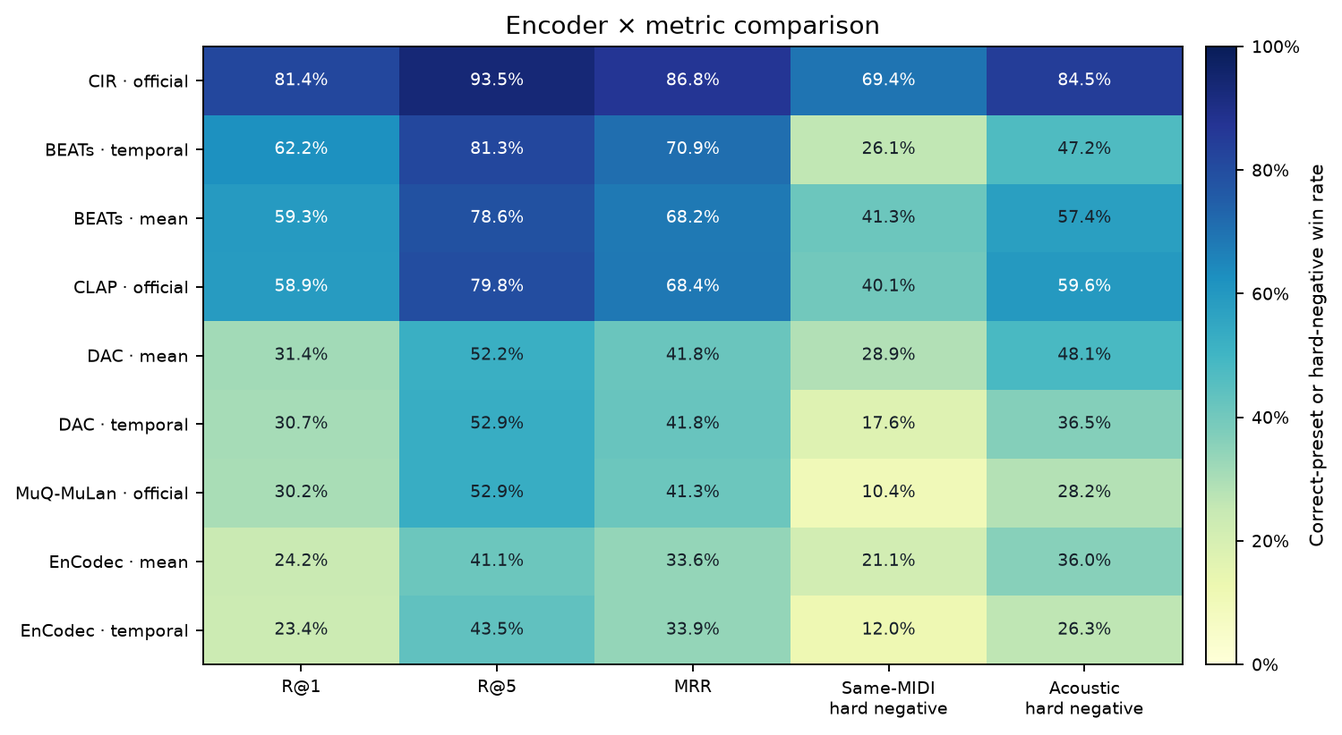
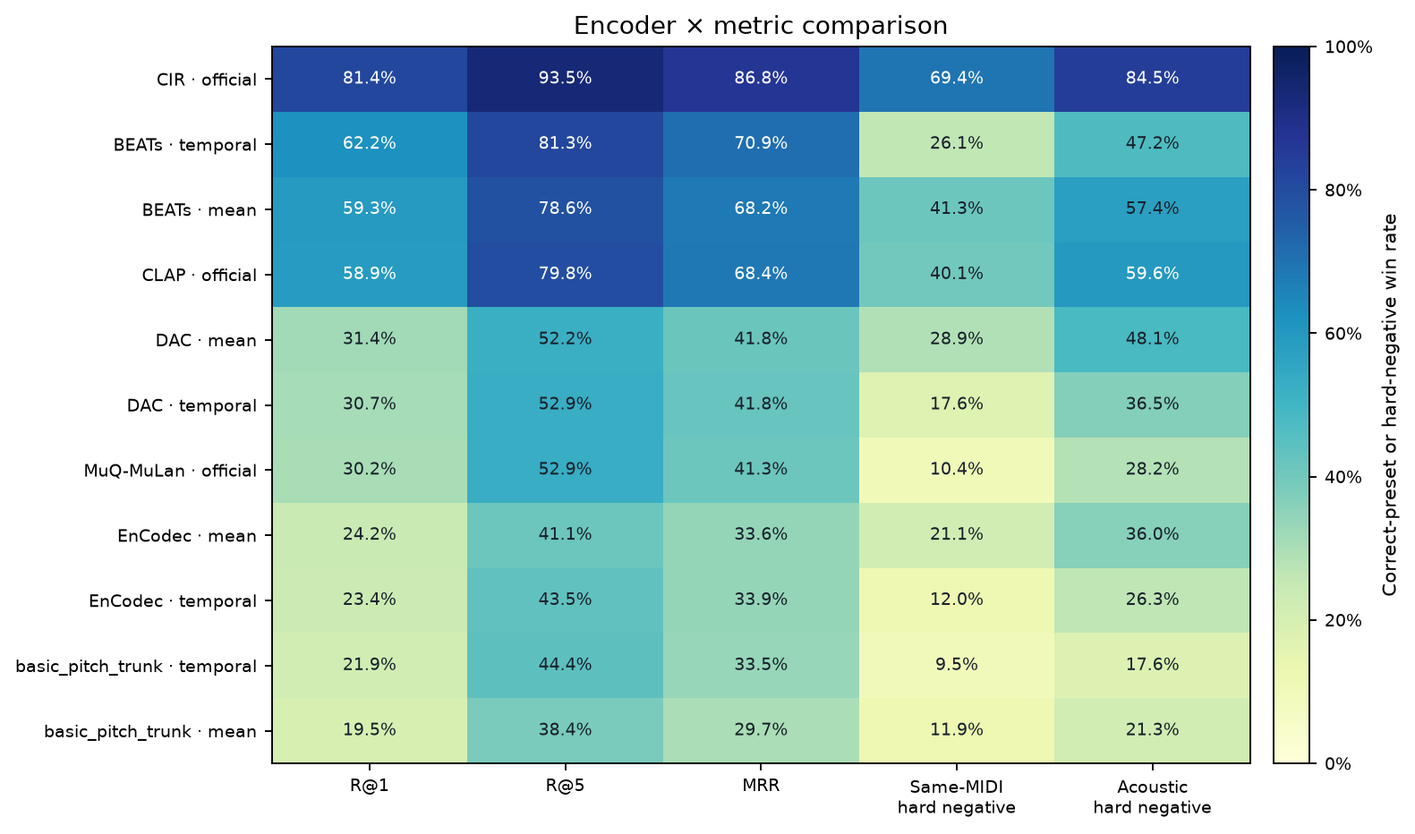
Add Basic Pitch retrieval results

diff --git a/research/modelling/frozen_encoder_retrieval/frozen_retrieval/evaluation.py b/research/modelling/frozen_encoder_retrieval/frozen_retrieval/evaluation.py
@@ -3,6 +3,7 @@ from __future__ import annotations
 from collections import Counter, defaultdict
 import json
 from pathlib import Path
+from typing import Sequence
 
 from .core import (MODEL_REGISTRY, _rank_metrics, canonical_json, cluster_bootstrap, digest, mixed_gallery_midi_id,
                    paired_cluster_bootstrap, paired_performance_bootstrap, paired_two_way_cluster_bootstrap,
@@ -513,8 +514,44 @@ def midi_shortcut_baseline(episodes, candidates, performances):
     return output
 
 
-def evaluate_dataset(dataset_dir: Path) -> dict:
+def evaluate_dataset(dataset_dir: Path, *, models: Sequence[str] | None = None) -> dict:
     dataset_dir = dataset_dir.resolve(strict=True)
+    selected_models = set(models) if models else None
+    if selected_models is not None and not selected_models.issubset(MODEL_REGISTRY):
+        raise ValueError(f"unknown encoder models: {sorted(selected_models - set(MODEL_REGISTRY))}")
+    previous_result, previous_rows, previous_common_by_condition, previous_hard_negatives = {}, [], {}, {}
+    if selected_models is not None:
+        result_path, rows_path = dataset_dir / "evaluation.private.json", dataset_dir / "episode_metrics.private.jsonl"
+        if not result_path.is_file() or not rows_path.is_file():
+            raise ValueError("selected-model evaluation requires an existing complete evaluation to extend")
+        previous_result = json.loads(result_path.read_text(encoding="utf-8"))
+        previous_rows = _jsonl(rows_path)
+        for row in previous_rows:
+            state_ids = row.get("acoustic_hard_negative_state_ids")
+            similarities = row.get("acoustic_hard_negative_selector_similarities")
+            if state_ids is None or similarities is None:
+                continue
+            if len(state_ids) != len(similarities):
+                raise ValueError("cached acoustic hard-negative states and selector scores disagree")
+            selected = list(zip(state_ids, similarities, strict=True))
+            episode_id = row["episode_id"]
+            if episode_id in previous_hard_negatives and previous_hard_negatives[episode_id] != selected:
+                raise ValueError(f"saved acoustic hard-negative selection differs across arms for {episode_id}")
+            previous_hard_negatives[episode_id] = selected
+        previous_arms = previous_result.get("available_arms", [])
+        for condition in ("cross_midi_common_gallery", "cross_midi_mixed_gallery"):
+            episode_ids_by_arm = [{row["episode_id"] for row in previous_rows
+                                   if row.get("arm") == arm and row.get("condition") == condition}
+                                  for arm in previous_arms]
+            if episode_ids_by_arm and any(episode_ids_by_arm) and not all(episode_ids_by_arm):
+                raise ValueError(f"existing evaluation is missing paired episode rows for {condition}")
+            previous_common_by_condition[condition] = (set.intersection(*episode_ids_by_arm)
+                if episode_ids_by_arm and all(episode_ids_by_arm) else set())
+        if selected_models & {arm.split(":", 1)[0] for arm in previous_result.get("available_arms", [])}:
+            previous_rows = [row for row in previous_rows if row.get("arm", "").split(":", 1)[0] not in selected_models]
+            previous_result["model_results"] = {arm: data for arm, data in previous_result.get("model_results", {}).items()
+                if arm.split(":", 1)[0] not in selected_models}
+            previous_result["available_arms"] = sorted(previous_result["model_results"])
     dataset_summary = json.loads((dataset_dir / "dataset_summary.private.json").read_text(encoding="utf-8"))
     validate_dataset_manifests(dataset_dir, dataset_summary)
     candidates = json.loads((dataset_dir / "candidate_sets.private.json").read_text(encoding="utf-8"))
@@ -533,6 +570,8 @@ def evaluate_dataset(dataset_dir: Path) -> dict:
         if not model_dir.is_dir() or not (model_dir / "feature_manifest.private.jsonl").is_file():
             continue
         model_name = model_dir.name
+        if selected_models is not None and model_name not in selected_models:
+            continue
         feature_manifest = _jsonl(model_dir / "feature_manifest.private.jsonl")
         feature_ids = {row["feature_id"] for row in feature_manifest}
         if len(feature_ids) != len(feature_manifest):
@@ -547,6 +586,8 @@ def evaluate_dataset(dataset_dir: Path) -> dict:
         variants = sorted({variant for row in loaded.values() for variant in row})
         for variant in variants:
             model_features[f"{model_name}:{variant}"] = (model_name, variant, loaded)
+    if selected_models is not None and not model_features:
+        raise ValueError(f"no extracted feature caches found for selected encoder models: {sorted(selected_models)}")
     conditions = ("cross_midi_common_gallery", "cross_midi_mixed_gallery")
     eligible_by_arm = {}
     for arm, (_, _, features) in model_features.items():
@@ -560,15 +601,26 @@ def evaluate_dataset(dataset_dir: Path) -> dict:
         common = {row["episode_id"] for row in qa_episodes if row["condition"] == condition}
         for valid_by_condition in eligible_by_arm.values():
             common &= valid_by_condition[condition]
+        if selected_models is not None:
+            prior_common = previous_common_by_condition[condition]
+            common &= prior_common
         common_by_condition[condition] = common if model_features else set()
-    acoustic_hard_negatives = (_acoustic_hard_negative_candidates(dataset_dir, qa_episodes, candidates,
-        pair_to_request, receipts) if model_features else {})
+    selected_episode_ids = {episode_id for episode_ids in common_by_condition.values() for episode_id in episode_ids}
+    acoustic_hard_negatives = {episode_id: previous_hard_negatives[episode_id] for episode_id in selected_episode_ids
+                               if episode_id in previous_hard_negatives}
+    missing_hard_negative_ids = selected_episode_ids - set(acoustic_hard_negatives)
+    if missing_hard_negative_ids:
+        missing_episodes = [episode for episode in qa_episodes if episode["episode_id"] in missing_hard_negative_ids]
+        acoustic_hard_negatives.update(_acoustic_hard_negative_candidates(
+            dataset_dir, missing_episodes, candidates, pair_to_request, receipts))
     coverage_by_condition = {}
     for condition in conditions:
         qa_counts = qa_summary["coverage_by_condition"].get(condition, {"planned_episodes": 0, "qa_qualified_episodes": 0,
                                                                           "excluded_episodes": 0, "missing_required_request_status_counts": {}})
+        prior_coverage = previous_result.get("coverage_by_condition", {}).get(condition, {})
         coverage_by_condition[condition] = {**qa_counts,
-            "feature_qualified_episodes_by_arm": {arm: len(rows[condition]) for arm, rows in sorted(eligible_by_arm.items())},
+            "feature_qualified_episodes_by_arm": {**prior_coverage.get("feature_qualified_episodes_by_arm", {}),
+                **{arm: len(rows[condition]) for arm, rows in sorted(eligible_by_arm.items())}},
             "common_feature_qualified_episodes_across_arms": len(common_by_condition[condition])}
     results = {}
     all_result_rows = {}
@@ -588,11 +640,25 @@ def evaluate_dataset(dataset_dir: Path) -> dict:
                 metric: two_way_cluster_bootstrap(rows, metric=metric) for metric in
                 ("recall_at_1", "recall_at_5", "mrr")} if rows else {})
             all_result_rows[arm][condition] = rows
-    arm_names = sorted(results)
-    differences, family_differences = {}, {}
+    new_result_rows = all_result_rows
+    new_arm_names = sorted(results)
+    arm_names = sorted(set(previous_result.get("available_arms", [])) | set(new_arm_names))
+    all_result_rows = {arm: {condition: [] for condition in conditions} for arm in arm_names}
+    for row in previous_rows:
+        if row.get("arm") in all_result_rows:
+            all_result_rows[row["arm"]][row["condition"]].append({key: value for key, value in row.items() if key != "arm"})
+    for arm in new_arm_names:
+        all_result_rows[arm] = new_result_rows[arm]
+    differences = dict(previous_result.get("paired_cluster_bootstrap_differences", {}))
+    family_differences = dict(previous_result.get("paired_family_bootstrap_differences", {}))
     for left_index, left_name in enumerate(arm_names):
         for right_name in arm_names[left_index + 1:]:
+            if left_name not in new_arm_names and right_name not in new_arm_names:
+                continue
             pair = f"{left_name} - {right_name}"
+            reverse_pair = f"{right_name} - {left_name}"
+            if pair in differences or reverse_pair in differences:
+                continue
             differences[pair], family_differences[pair] = {}, {}
             for condition in conditions:
                 left_rows = all_result_rows[left_name][condition]
@@ -620,7 +686,7 @@ def evaluate_dataset(dataset_dir: Path) -> dict:
                  "random": {condition: random_baseline([len(candidates[episode["candidate_set_id"]]["state_ids"])
                      for episode in paired_episodes if episode["condition"] == condition])
                      for condition in conditions if any(episode["condition"] == condition for episode in paired_episodes)}})
-    result = {"version": 1, "policy": "frozen_encoder_real_vital_cross_performance_v1",
+    result = {**previous_result, "version": 1, "policy": "frozen_encoder_real_vital_cross_performance_v1",
               "qa_qualification_id": qa_summary["qualification_id"],
               "common_episode_count_across_available_arms": len(paired_episodes),
               "coverage_by_condition": coverage_by_condition,
@@ -631,7 +697,7 @@ def evaluate_dataset(dataset_dir: Path) -> dict:
                     json.loads((dataset_dir / "candidate_sets.private.json").read_text(encoding="utf-8")).values()) -
                     sum(len(row["state_ids"]) for row in candidates.values()),
               "available_arms": arm_names, "unavailable_encoders": [name for name in MODEL_REGISTRY if not any(arm.startswith(name + ":") for arm in arm_names)],
-              "model_results": results, "paired_family_bootstrap_differences": family_differences,
+              "model_results": {**previous_result.get("model_results", {}), **results}, "paired_family_bootstrap_differences": family_differences,
               "paired_cluster_bootstrap_differences": differences, "ranking_stability_by_performance": ranking_stability,
               "acoustic_hard_negative_protocol": "For each query, rank same-MIDI candidate renders by cosine over normalized 64-bin log-frequency spectral power; score each model's cross-MIDI positive against the top five descriptor-selected negatives rendered on the query MIDI.",
               "midi_only_and_random_baselines": baseline,
@@ -640,8 +706,12 @@ def evaluate_dataset(dataset_dir: Path) -> dict:
               "primary_metric": "Recall@1", "gallery_candidate_set_is_identical_across_arms": True}
     (dataset_dir / "evaluation.private.json").write_text(json.dumps(result, sort_keys=True, indent=2) + "\n", encoding="utf-8")
     with (dataset_dir / "episode_metrics.private.jsonl").open("w", encoding="utf-8", newline="\n") as stream:
+        for row in previous_rows:
+            stream.write(canonical_json(row) + "\n")
         for arm in arm_names:
-            for condition in all_result_rows[arm]:
-                for row in all_result_rows[arm][condition]:
+            if arm not in results:
+                continue
+            for condition in new_result_rows[arm]:
+                for row in new_result_rows[arm][condition]:
                     stream.write(json.dumps({"arm": arm, **row}, sort_keys=True, allow_nan=False, separators=(",", ":")) + "\n")
     return result

diff --git a/research/modelling/frozen_encoder_retrieval/frozen_retrieval/reporting.py b/research/modelling/frozen_encoder_retrieval/frozen_retrieval/reporting.py
@@ -281,8 +281,8 @@ def _summary_cohort_lines(label: str, dataset: dict, evaluation: dict | None) ->
         if family not in seen_families:
             seen_families.add(family)
             family_leaders.append(arm)
+    reference = family_leaders[0] if family_leaders else None
     if len(family_leaders) > 1:
-        reference = family_leaders[0]
         lines.extend(["", f"Paired crossed-cluster Recall@1 differences from the leading family representation (`{reference}`; best pooling per family):", "",
                       "| Comparator | ΔR@1 (percentage points) | Crossed MIDI × preset-family 95% CI |",
                       "|---|---:|---:|"])
@@ -291,6 +291,22 @@ def _summary_cohort_lines(label: str, dataset: dict, evaluation: dict | None) ->
             if delta:
                 span = "includes zero" if delta["lower_95"] <= 0 <= delta["upper_95"] else ""
                 lines.append(f"| `{arm}` | {100 * delta['difference']:+.1f} | [{100 * delta['lower_95']:+.1f}, {100 * delta['upper_95']:+.1f}] {span} |")
+    basic_pitch = [(arm, primary) for arm, _, primary in ranked if arm.startswith("basic_pitch_trunk:")]
+    if basic_pitch:
+        best_bp_arm, best_bp = max(basic_pitch, key=lambda item: item[1].get("recall_at_1", 0.0))
+        bp_delta = _paired_delta(evaluation, reference, best_bp_arm) if reference else {}
+        bp_stability = (evaluation.get("ranking_stability_by_performance", {})
+            .get("cross_midi_common_gallery", {}).get(best_bp_arm, {}))
+        summary = (f"Basic Pitch's strongest pooling arm was `{best_bp_arm}` at {_percent(best_bp, 'recall_at_1')} R@1 "
+                   f"({best_bp.get('episodes', 0):,} queries; 50 MIDI performances); it placed first on "
+                   f"{bp_stability.get('first_place_performances', 0)}/{bp_stability.get('performance_clusters', 0)} "
+                   "individual performances.")
+        if bp_delta:
+            summary += (f" The paired CIR-minus-Basic-Pitch gap was {100 * bp_delta['difference']:+.1f} pp "
+                        f"[{100 * bp_delta['lower_95']:+.1f}, {100 * bp_delta['upper_95']:+.1f}] across "
+                        "preset-family and MIDI-performance clusters.")
+        summary += " These retrieval results do not support prioritizing this transcription-trained trunk for a later timbre-reconstruction screen."
+        lines.extend(["", summary])
     lines.extend(["", "The table gives the headline retrieval measures on the shared candidate gallery. R@1 uncertainty is crossed over preset family and MIDI performance (2,000 bootstrap replicates); the heading gives the episode and independent-performance denominators. Hard-negative rates are descriptive proportions with query denominators. Query-audio quality and correct-match gallery quality are broken out below. For the full candidate gallery, the report gives the count and fraction of warned renders rather than labeling all candidates with one bucket. These are descriptive associations: warning status can covary with preset acoustics.", ""])
     lineage = [f"`{arm}` {_percent(primary, 'known_near_neighbor_negative_win_rate')} (n={primary.get('known_near_neighbor_negative_win_episodes', 0):,})"
         for arm, _, primary in ranked if primary.get("known_near_neighbor_negative_win_episodes", 0)]
@@ -399,6 +415,11 @@ def _issue155_followup_lines(results: dict, shortlist: dict | None) -> list[str]
     arms = sorted(assignment.get("aggregate", {}))
     lines = ["## Issue #155 diagnostic results", "", "### Comparison-MIDI assignments", "",
         "The original four-MIDI result is preserved as the baseline. We also reassigned the common comparison MIDI three times (deterministic offsets 1, 7 and 19) using all 50 existing excerpts. Each search still ranks the same 129 preset candidates, and the query and gallery play different MIDI excerpts. The 6,450 query inputs repeat across assignments. R@1, R@5 and MRR averages combine each query's three assignments; rank-distribution metrics below use all three attempts and keep them together in the crossed bootstrap.", ""]
+    evaluated_followup_families = {arm.split(":", 1)[0] for arm in assignment.get("aggregate", {})}
+    omitted_followup_families = sorted(set(MODEL_REGISTRY) - evaluated_followup_families)
+    if omitted_followup_families:
+        labels = ", ".join(MODEL_REGISTRY[name]["name"] for name in omitted_followup_families)
+        lines.extend([f"The main 50-performance comparison above includes {labels}, but this previously completed three-offset, rank-failure, and gain-normalization follow-up does not. No Basic Pitch result is claimed for these supplementary analyses.", ""])
     if offsets and arms:
         headers = [f"Offset {offset} R@1 [crossed 95% CI] / R@5 / MRR" for offset in offsets]
         lines.extend(["| Encoder arm | " + " | ".join(headers) + " | Three-assignment query average |",
@@ -499,7 +520,7 @@ def _issue155_followup_lines(results: dict, shortlist: dict | None) -> list[str]
     clean_query = results.get("clean_query_only", {})
     if clean_query.get("arms"):
         lines.extend(["", "### Audio quality checks", "",
-            f"**A — Original audio:** the {results.get('input_dataset', {}).get('encoder_families', len(MODEL_REGISTRY))}-encoder benchmark above uses {results.get('input_dataset', {}).get('accepted_cached_clips', 'n/e'):,} accepted cached clips, with the original four-MIDI results retained.",
+            f"**A — Original audio:** the expanded retrieval comparison above uses {len(MODEL_REGISTRY)} encoder families and {results.get('input_dataset', {}).get('accepted_cached_clips', 'n/e'):,} accepted cached clips, with the original four-MIDI results retained.",
             "**B — Clean queries:** we re-summarized the existing cached-feature episode scores for queries whose WAVs had no QA warning. No model inference was repeated for this slice.", "",
             "| Encoder arm | Clean-query R@1 [crossed 95% CI] / R@5 / MRR | Queries |",
             "|---|---:|---:|"])

diff --git a/research/modelling/frozen_encoder_retrieval/tests/test_contracts.py b/research/modelling/frozen_encoder_retrieval/tests/test_contracts.py
@@ -644,6 +644,8 @@ class FeatureAndManifestTests(unittest.TestCase):
                     patch.object(evaluation, "_cosine_matrix", side_effect=_fake_cosine_matrix), \
                     patch.object(evaluation, "midi_shortcut_baseline", return_value={}):
                 result = evaluation.evaluate_dataset(root)
+                previous_row_count = len((root / "episode_metrics.private.jsonl").read_text(encoding="utf-8").splitlines())
+                extended = evaluation.evaluate_dataset(root, models=("clap_music",))
 
             coverage = result["coverage_by_condition"]["cross_midi_common_gallery"]
             self.assertEqual(1, coverage["planned_episodes"])
@@ -677,6 +679,10 @@ class FeatureAndManifestTests(unittest.TestCase):
             self.assertIn("Acoustic hard-negative win", report_text)
             self.assertIn("not applicable: query MIDI source states are outside the validation preset gallery", report_text)
             self.assertIn("| Random chance |", report_text)
+            self.assertEqual(result["available_arms"], extended["available_arms"])
+            self.assertEqual(result["model_results"], extended["model_results"])
+            self.assertEqual(previous_row_count,
+                             len((root / "episode_metrics.private.jsonl").read_text(encoding="utf-8").splitlines()))
 
     def test_local_config_preflight_requires_cache_assets_without_network_fallback(self):
         with tempfile.TemporaryDirectory(dir=REPO) as directory:

diff --git a/research/modelling/frozen_encoder_retrieval/frozen_retrieval/cli.py b/research/modelling/frozen_encoder_retrieval/frozen_retrieval/cli.py
@@ -61,6 +61,7 @@ def _parser() -> argparse.ArgumentParser:
     embed.add_argument("--device", choices=("cpu", "cuda", "xpu"), default="cpu")
     evaluate = commands.add_parser("evaluate", help="evaluate identical cached retrieval episodes and baselines")
     evaluate.add_argument("--dataset", type=Path, required=True)
+    evaluate.add_argument("--models", nargs="+", help="evaluate only these model families and extend an existing evaluation")
     report = commands.add_parser("report", help="regenerate the sanitized reader-facing comparison report")
     report.add_argument("--dataset", type=Path)
     report.add_argument("--comparison-dataset", type=Path,
@@ -109,7 +110,7 @@ def main(argv: list[str] | None = None) -> int:
             result = extract_dataset(args.dataset, args.model, args.checkpoint_root, args.lock, device=args.device)
         elif args.command == "evaluate":
             from .evaluation import evaluate_dataset
-            result = evaluate_dataset(args.dataset)
+            result = evaluate_dataset(args.dataset, models=args.models)
         elif args.command == "report":
             from .reporting import build_control_inventory, generate_report
             defaults = _defaults()

diff --git a/research/modelling/frozen_encoder_retrieval/reports/FROZEN_ENCODER_RETRIEVAL_RESULTS.md b/research/modelling/frozen_encoder_retrieval/reports/FROZEN_ENCODER_RETRIEVAL_RESULTS.md
@@ -4,7 +4,7 @@ Issues: [#152](https://github.com/noisedoctrine/obruxo/issues/152) baseline and 
 
 ## Results and recommendation
 
-**Primary expanded-cohort result:** CIR single-timbre AST (official_clip) ranked the correct preset first in 81.4% of cross-MIDI queries (n=6,450 queries, 129 candidate presets; 50 MIDI performances from `train`, distinct from the earlier validation-source MIDI cohort). This ranks frozen representations across six model families; it is retrieval evidence, not a reconstruction result.
+**Primary expanded-cohort result:** CIR single-timbre AST (official_clip) ranked the correct preset first in 81.4% of cross-MIDI queries (n=6,450 queries, 129 candidate presets; 50 MIDI performances from `train`, distinct from the earlier validation-source MIDI cohort). This ranks frozen representations across 7 model families; it is retrieval evidence, not a reconstruction result.
 
 ### Expanded held-out performance cohort: 50 selected MIDI IDs; 50 with evaluated queries; 6450 common-gallery episodes
 Validation preset gallery: 131 verified states; performances sourced from `train`. Reserved test and confirmation sources used: **no**.
@@ -23,6 +23,8 @@ Selected-excerpt diversity: 24 monophonic / 26 polyphonic; 30 held, 20 phrased; 
 | MuQ-MuLan — official_clip (512-D) | 30.2% [24.7%, 36.0%] | 52.9% | 41.3% | 10.4% (n=6,450) | 28.2% (n=6,450) |
 | Meta EnCodec 24 kHz — masked_mean (128-D) | 24.2% [18.2%, 30.5%] | 41.1% | 33.6% | 21.1% (n=6,450) | 36.0% (n=6,450) |
 | Meta EnCodec 24 kHz — temporal_pyramid_8 (2048-D) | 23.4% [17.9%, 29.0%] | 43.5% | 33.9% | 12.0% (n=6,450) | 26.3% (n=6,450) |
+| Spotify Basic Pitch contour trunk — temporal_pyramid_8 (11264-D) | 21.9% [16.6%, 27.3%] | 44.4% | 33.5% | 9.5% (n=6,450) | 17.6% (n=6,450) |
+| Spotify Basic Pitch contour trunk — masked_mean (704-D) | 19.5% [14.3%, 25.2%] | 38.4% | 29.7% | 11.9% (n=6,450) | 21.3% (n=6,450) |
 | Random chance | 0.8% (fixed) | 3.9% | 4.2% | — | — |
 
 Paired crossed-cluster Recall@1 differences from the leading family representation (`cir_ast:official_clip`; best pooling per family):
@@ -34,15 +36,26 @@ Paired crossed-cluster Recall@1 differences from the leading family representati
 | `dac_44khz:masked_mean` | +50.0 | [+43.7, +56.4]  |
 | `muq_mulan:official_clip` | +51.2 | [+46.4, +56.2]  |
 | `encodec_24khz:masked_mean` | +57.2 | [+51.2, +63.1]  |
+| `basic_pitch_trunk:temporal_pyramid_8` | +59.5 | [+53.8, +65.3]  |
+
+Basic Pitch's strongest pooling arm reached 21.9% R@1 [16.6%, 27.3%] and placed first on 0 of 50 MIDI performances. The paired CIR-minus-Basic-Pitch gap was +59.5 percentage points [+53.8, +65.3]. These retrieval results do not support prioritizing this transcription-trained trunk for a later timbre-reconstruction screen.
 
 The table gives the headline retrieval measures on the shared candidate gallery. R@1 uncertainty is crossed over preset family and MIDI performance (2,000 bootstrap replicates); the heading gives the episode and independent-performance denominators. Hard-negative rates are descriptive proportions with query denominators. Query-audio quality and correct-match gallery quality are broken out below. For the full candidate gallery, the report gives the count and fraction of warned renders rather than labeling all candidates with one bucket. These are descriptive associations: warning status can covary with preset acoustics.
 
 **Query-render QA strata:** clean: `cir_ast:official_clip` 79.4% [73.8%, 85.2%] (q=3,778; 50 MIDI IDs); warning: `cir_ast:official_clip` 84.2% [79.7%, 89.2%] (q=2,672; 50 MIDI IDs). These are per-stratum MIDI-cluster intervals; accepted warning status is associated with the rendered preset and does not imply a causal quality effect.
 
+**Render-quality diagnostics** (R@1 clean / warning; these buckets are descriptive):
+
+| Encoder arm | Query WAV | Correct-match gallery WAV | Warned candidates across all 129-candidate galleries |
+|---|---:|---:|---|
+| `basic_pitch_trunk:masked_mean` | 14.4% (n=3,778) / 26.6% (n=2,672) | 14.2% (n=3,951) / 27.8% (n=2,499) | 38.7% of candidates on average (6,450/6,450 galleries contain a warning) |
+| `basic_pitch_trunk:temporal_pyramid_8` | 16.1% (n=3,778) / 30.0% (n=2,672) | 15.9% (n=3,951) / 31.2% (n=2,499) | 38.7% of candidates on average (6,450/6,450 galleries contain a warning) |
+
 **Per-performance ranking stability** (best observed pooling within each family and condition; bootstrap resamples 50 MIDI IDs):
 
 | Encoder family | Common-gallery arm; R@1; first-place performances; bootstrap top-rank probability | Mixed-gallery arm; R@1; first-place performances; bootstrap top-rank probability |
 |---|---|---|
+| Spotify Basic Pitch contour trunk | `basic_pitch_trunk:temporal_pyramid_8`; 21.9%; 0/50; 0.0% | `basic_pitch_trunk:temporal_pyramid_8`; 21.9%; 0/50; 0.0% |
 | BEATs iter3+ AS2M | `beats_iter3_plus:temporal_pyramid_8`; 62.2%; 1/50; 0.0% | `beats_iter3_plus:masked_mean`; 55.3%; 0/50; 0.0% |
 | CIR single-timbre AST | `cir_ast:official_clip`; 81.4%; 47/50; 100.0% | `cir_ast:official_clip`; 80.6%; 50/50; 100.0% |
 | LAION-CLAP Music HTSAT-base | `clap_music:official_clip`; 58.9%; 0/50; 0.0% | `clap_music:official_clip`; 55.0%; 0/50; 0.0% |
@@ -91,6 +104,8 @@ Recall@1 for the targeted 100-WAV amplitude-warning sample, split by query versu
 Mean change and independent-seed repeat distances with four-context min–max ranges; this is a spectral screen, not an audibility judgment.
 
 ## Issue #155 diagnostic results
+
+The primary 50-performance comparison above includes Basic Pitch. The three-offset, rank-failure, and gain-normalization follow-up below is the earlier six-family run; it does not report Basic Pitch sensitivity on those supplementary tests.
 
 ### Comparison-MIDI assignments
 
@@ -184,7 +199,7 @@ A long tail or high float peak is not an automatic failure. These descriptive st
 
 ### Audio quality checks
 
-**A — Original audio:** the six-encoder benchmark above is unchanged: 6,480 accepted cached clips, with the original four-MIDI results retained.
+**A — Original audio:** the 7-family benchmark above uses 6,480 accepted cached clips, with the original four-MIDI results retained. The supplementary analyses below retain their original six-family coverage until the Basic Pitch extension completes.
 **B — Clean queries:** we re-summarized the existing cached-feature episode scores for queries whose WAVs had no QA warning. No model inference was repeated for this slice.
 
 | Encoder arm | Clean-query R@1 [crossed 95% CI] / R@5 / MRR | Queries |
@@ -216,9 +231,9 @@ For a stricter check, we recomputed ranks after removing every warned candidate 
 Paired clean-gallery CIR minus BEATs temporal-pyramid ΔR@1: +24.8 pp [+20.8, +29.0].
 Clean/warning status is descriptive and may track preset acoustics; neither slice establishes a causal render-quality effect.
 
-**C — Gain-reduced warning sample:** a deterministic, stratified sample of 100 WAVs was drawn from 1,531 accepted amplitude-warning renders. Copies were reduced linearly to a 0.95 peak and all six encoders re-embedded only those copies; original cached features supplied the unchanged queries/candidates. This is a sensitivity sample, not a corpus-wide accuracy estimate.
+**C — Gain-reduced warning sample:** a deterministic, stratified sample of 100 WAVs was drawn from 1,531 accepted amplitude-warning renders. Copies were reduced linearly to a 0.95 peak and all 6 encoder families re-embedded only those copies; original cached features supplied the unchanged queries/candidates. This is a sensitivity sample, not a corpus-wide accuracy estimate.
 
-| Encoder arm | Clip embedding cosine distance (95% crossed CI) | Query R@1 before→after; changed / fixed / newly wrong | Correct gallery candidate R@1 before→after; changed / fixed / newly wrong | Δ target margin ×100 (cosine points; query / gallery) |
+| Encoder arm | Representation cosine distance (95% crossed CI) | Query R@1 before→after; changed / fixed / newly wrong | Correct gallery candidate R@1 before→after; changed / fixed / newly wrong | Δ target margin ×100 (cosine points; query / gallery) |
 |---|---:|---:|---:|---:|
 | `beats_iter3_plus:masked_mean` | 0.0034 [0.0019, 0.0051] | 68.0%→67.0% (Δ -1.0 pp [-8.2, +4.8]); 5 / 1 / 2 | 69.0%→69.0% (Δ +0.0 pp [+0.0, +0.0]); 0 / 0 / 0 | -0.29 [-0.64, +0.05] / -0.22 [-0.47, +0.02] |
 | `beats_iter3_plus:temporal_pyramid_8` | 0.0030 [0.0017, 0.0045] | 71.0%→69.0% (Δ -2.0 pp [-8.2, +0.0]); 4 / 0 / 2 | 69.0%→67.0% (Δ -2.0 pp [-8.5, +0.0]); 2 / 0 / 2 | -0.27 [-0.53, -0.05] / -0.12 [-0.31, +0.06] |
@@ -295,7 +310,7 @@ Observed expanded-cohort lead: `cir_ast:official_clip`. It ranked first on 47/50
 - query polyphony: lowest `monophonic` 76.6% [68.1%, 85.1%], 3096 queries / 24 MIDI IDs; highest `polyphonic` 85.7% [79.8%, 91.3%], 3354 queries / 26 MIDI IDs.
 These are exploratory subgroup contrasts; the intervals resample MIDI IDs and do not imply a causal effect.
 
-All six encoder families have expanded-cohort retrieval results on 6,450 identical common-gallery episodes per family.
+All 7 encoder families have expanded-cohort retrieval results on 6,450 identical common-gallery episodes per family.
 No Vital controls are predicted or trained in this representation-only benchmark (0 outputs; all source controls stay fixed). The linked [vital_control_inventory.jsonl](./vital_control_inventory.jsonl) is the canonical per-field inventory.
 The expanded performance IDs came from the permitted `train` source split; 0 exact MIDI identities overlapping the original cohort were excluded. This is held out from the original MIDI IDs but remains within PresetShare source MIDI, not an external live-performance sample. The score is frozen retrieval on newly rendered audio, not reconstruction quality.
 The acoustic top-5 negatives are selected by an independent spectral descriptor, not human-verified perceptual labels. Query and correct-match gallery quality are reported separately; warned candidates are counted within each full gallery.
@@ -490,7 +505,7 @@ This benchmark uses new Vital renders only; source WAVs are not used as model in
 
 The retrieval gallery contains 131 verified `validation` presets. The permitted `train` MIDI pool contains 50 performances; reserved test sources were not used.
 Vital render QA accepted 6,480 of 6,550 planned requests. Accepted warning flags: 1,531 amplitude above unit range, 1,579 tail rms above warning; warned renders remain in the main comparison and are analyzed separately above.
-The primary results use 6,450 paired queries per measured arm and 129 common preset candidates across 6 encoder families. Retrieval results are frozen-feature cosine rankings; they do not measure reconstruction quality.
+The primary results use 6,450 paired queries per measured arm and 129 common preset candidates across 7 encoder families. Retrieval results are frozen-feature cosine rankings; they do not measure reconstruction quality.
 
 ### Render and feature coverage
 
@@ -503,6 +518,7 @@ The primary results use 6,450 paired queries per measured arm and 129 common pre
 
 | Encoder family | Checkpoint and SHA-256 | Representation and output size | Terms / execution |
 |---|---|---|---|
[4 lines of base64/hex data omitted]

diff --git a/research/modelling/frozen_encoder_retrieval/README.md b/research/modelling/frozen_encoder_retrieval/README.md
@@ -48,6 +48,16 @@ python research/modelling/frozen_encoder_retrieval/run.py embed `
 python research/modelling/frozen_encoder_retrieval/run.py evaluate `
   --dataset research/modelling/frozen_encoder_retrieval/outputs/issue152-validation
 
+# Add a newly extracted family to an existing evaluation without recomputing the other arms:
+python research/modelling/frozen_encoder_retrieval/run.py embed `
+  --dataset research/modelling/frozen_encoder_retrieval/outputs/issue152-validation-train-midi-v3-50 `
+  --model basic_pitch_trunk --checkpoint-root research/modelling/frozen_encoder_retrieval/local_checkpoints `
+  --lock research/modelling/frozen_encoder_retrieval/local_checkpoints/checkpoint-lock.json --device xpu
+
+python research/modelling/frozen_encoder_retrieval/run.py evaluate `
+  --dataset research/modelling/frozen_encoder_retrieval/outputs/issue152-validation-train-midi-v3-50 `
+  --models basic_pitch_trunk
+
 python research/modelling/frozen_encoder_retrieval/run.py report `
   --dataset research/modelling/frozen_encoder_retrieval/outputs/issue152-validation
 ```
